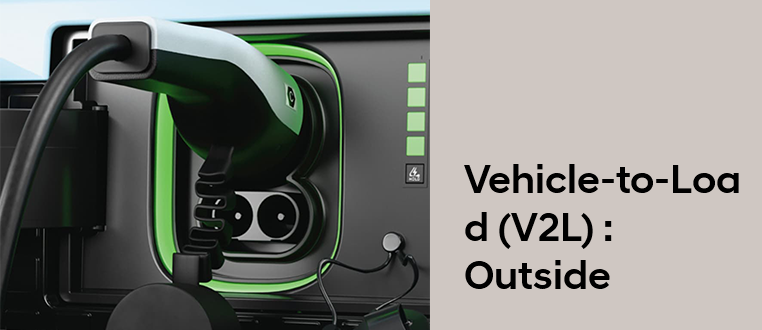
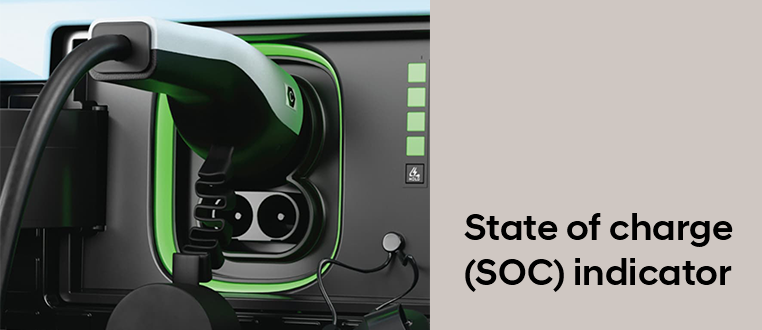
new cam button and hotspots

Changed region(s): [[0.6037, 0.4848, 0.9961, 0.6061], [0.6037, 0.7879, 0.9659, 0.8788], [0.6037, 0.6364, 0.9659, 0.7576]]

diff --git a/src/PopupBox.js b/src/PopupBox.js
@@ -18,10 +18,10 @@ const hotspotDescriptions = [
     },
     {
       id: "charger",
-      heading: "Vehicle-to-Load (V2L) : Outside",
+      heading: "State of charge (SOC) indicator",
       imgsrc: "./hotspots/charger.jpg",
       message:
-        "Whether you're camping or in need of an emergency power source, the Hyundai CRETA Electric enables you to power your gadgets and appliances both inside and outside the vehicle, ensuring you never run out of power. Hyundai CRETA Electric comes equipped with a charging port with multi-colour surround light and state of charge (SOC) indicator to provide ease of access while charging. ",
+        "Hyundai CRETA Electric comes equipped with a charging port with multi-colour surround light and state of charge (SOC) indicator to provide ease of access while charging.",
     },
     {
       id: "wheel",
@@ -50,7 +50,8 @@ const hotspotDescriptions = [
       heading: "Eco-friendly seat upholstery with CRETA Electric branding",
       imgsrc: "./hotspots/seat.jpg",
       message:
-        "Hyundai CRETA Electric features eco-friendly seats crafted from sustainable materials including recycled plastic bottles and corn extract, and adorned with unique Hyundai CRETA Electric branding, showcasing a perfect blend of comfort, style and sustainability. ",
+        "Hyundai CRETA Electric features eco-friendly seats crafted from sustainable materials including recycled plastic bottles and corn extract.**",
+      disclaimer: "**Basis variants seat upholstery are of two types either fabric or bio-leather. Fabric upholstery consist of 20% recycled PET bottle material. Bio-leather consist of 10% bio-material (corn extracts)."
     },
     {
       id: "v2l",
@@ -105,6 +106,8 @@ const PopupBox = ({ show, id, onClose }) => {
   const [heading, setHeading] = useState("");
   const [description, setDescription] = useState("");
   const [imgSrc, setImgSrc] = useState("");
+  const [disclaimer, setDisclaimer] = useState("");
+
 
   useEffect(() => {
     if (id !== "") {
@@ -113,11 +116,13 @@ const PopupBox = ({ show, id, onClose }) => {
         setHeading(selectedHotspot.heading);
         setDescription(selectedHotspot.message);
         setImgSrc(selectedHotspot.imgsrc);
+        setDisclaimer(selectedHotspot.disclaimer?selectedHotspot.disclaimer:"")
       }
     } else {
       setHeading("");
       setDescription("");
       setImgSrc("");
+      setDisclaimer("");
     }
   }, [id]);
 
@@ -139,6 +144,7 @@ const PopupBox = ({ show, id, onClose }) => {
               </div>
               <div className="popup-message">
                 <p>{description}</p>
+                <p className="popup-disclaimer">{disclaimer}</p>
               </div>
             </>
           ) : (

diff --git a/src/PopoutBoxM.js b/src/PopoutBoxM.js
@@ -21,7 +21,7 @@ import "./PopoutBoxM.css";
           heading: "Vehicle-to-Load (V2L) : Outside",
           imgsrc: "./hotspots/mobile/charger.png",
           message:
-            "Whether you're camping or in need of an emergency power source, the Hyundai CRETA Electric enables you to power your gadgets and appliances both inside and outside the vehicle, ensuring you never run out of power. Hyundai CRETA Electric comes equipped with a charging port with multi-colour surround light and state of charge (SOC) indicator to provide ease of access while charging. ",
+            "Hyundai CRETA Electric comes equipped with a charging port with multi-colour surround light and state of charge (SOC) indicator to provide ease of access while charging.",
         },
         {
           id: "wheel",
@@ -50,7 +50,9 @@ import "./PopoutBoxM.css";
           heading: "Eco-friendly seat upholstery with CRETA Electric branding",
           imgsrc: "./hotspots/mobile/seat.png",
           message:
-            "Hyundai CRETA Electric features eco-friendly seats crafted from sustainable materials including recycled plastic bottles and corn extract, and adorned with unique Hyundai CRETA Electric branding, showcasing a perfect blend of comfort, style and sustainability. ",
+            "Hyundai CRETA Electric features eco-friendly seats crafted from sustainable materials including recycled plastic bottles and corn extract.**",
+          disclaimer: "**Basis variants seat upholstery are of two types either fabric or bio-leather. Fabric upholstery consist of 20% recycled PET bottle material. Bio-leather consist of 10% bio-material (corn extracts)."
+
         },
         {
           id: "v2l",
@@ -72,6 +74,8 @@ const PopoutBoxM = ({ show, id, onClose }) => {
   const [heading, setHeading] = useState("");
   const [description, setDescription] = useState("");
   const [imgSrc, setImgSrc] = useState("");
+  const [disclaimer, setDisclaimer] = useState("");
+  
 
   useEffect(() => {
     if (id) {
@@ -80,11 +84,15 @@ const PopoutBoxM = ({ show, id, onClose }) => {
         setHeading(selectedHotspot.heading);
         setDescription(selectedHotspot.message);
         setImgSrc(selectedHotspot.imgsrc);
+        setDisclaimer(selectedHotspot.disclaimer?selectedHotspot.disclaimer:"")
+
       }
     } else {
       setHeading("");
       setDescription("");
       setImgSrc("");
+      setDisclaimer("");
+
     }
   }, [id]);
 
@@ -102,6 +110,7 @@ const PopoutBoxM = ({ show, id, onClose }) => {
           </div>
           <div className="popout-description">
             <p>{description}</p>
+            <p className="popup-disclaimer">{disclaimer}</p>
           </div>
         </div>
       )}

diff --git a/src/ThreeScene.js b/src/ThreeScene.js
@@ -746,9 +746,9 @@ const CamHotSpot = ({
     <primitive
       name={id}
       ref={meshRef}
-      rotation={[0, Math.PI / 2, 0]}
+      rotation={[0, 0, 0]}
       object={clonedScene}
-      scale={scale}
+      scale={scale*2}
       onClick={handleClick}
     />
   );
@@ -1677,7 +1677,7 @@ export default function ThreeScene() {
               <CamHotSpot
                 key={"k"}
                 id={"k"}
-                position={[0.2, 1.25, -2]}
+                position={[0.051, 1.25, -2]}
                 scale={0.015}
                 onClick={eventHandlers["handleintCameraChange"]}
               />
@@ -1686,7 +1686,7 @@ export default function ThreeScene() {
               <CamHotSpot
                 key={"ke"}
                 id={"ke"}
-                position={[2.0, 1.95, -41]}
+                position={[-0.5, 1.95, -41]}
                 scale={0.2}
                 onClick={eventHandlers["handleintCameraChange"]}
               />

diff --git a/src/PopupBox.css b/src/PopupBox.css
@@ -70,7 +70,11 @@
   z-index: 1100;
   backdrop-filter: blur(10px); /* Match frosted effect */
 }
-
+.popup-message .popup-disclaimer {
+  
+  font-size: 10px; /* Smaller font size for the disclaimer */
+  color: #000000; /* Optional: lighter color to differentiate */
+}
 .popup-toggle.closed,
 .popup-toggle.open {
   margin-bottom: 0px;

diff --git a/src/PopoutBoxM.css b/src/PopoutBoxM.css
@@ -43,7 +43,11 @@
     backdrop-filter: blur(10px); /* Match frosted effect */
 
   }
+  .popup-description .popup-disclaimer {
   
+    font-size: 8px; /* Smaller font size for the disclaimer */
+    color: #000000; /* Optional: lighter color to differentiate */
+  }
   
   .popout-content {
     padding: 0px;
